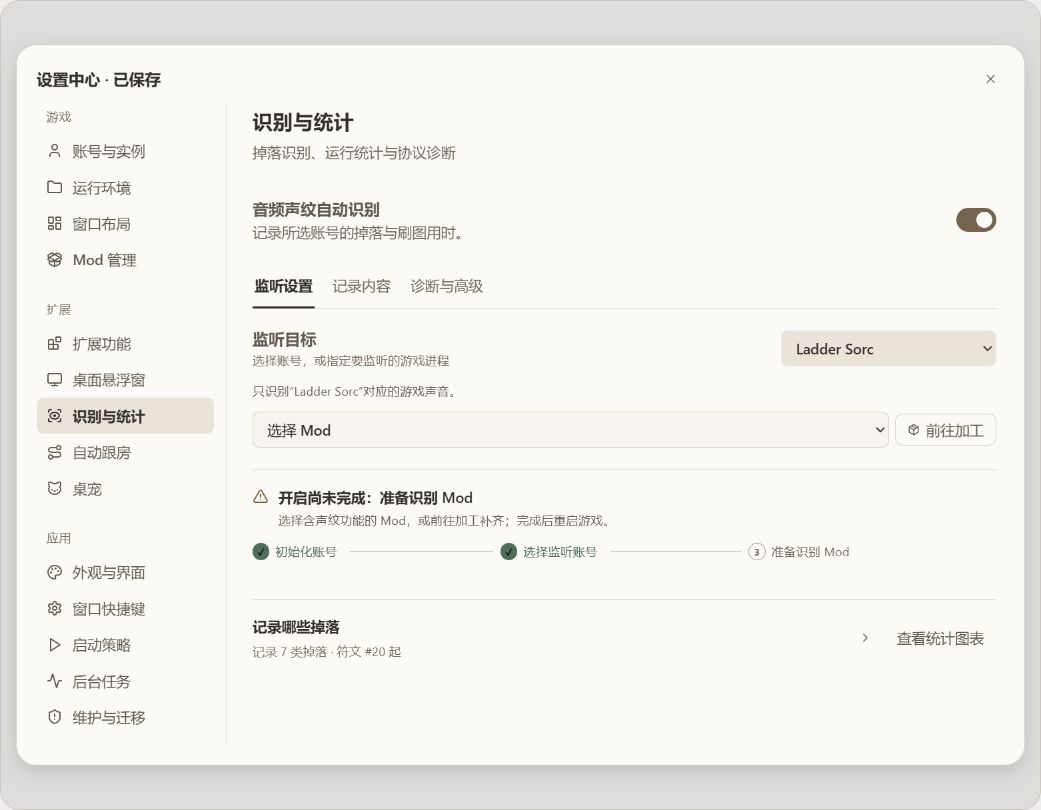
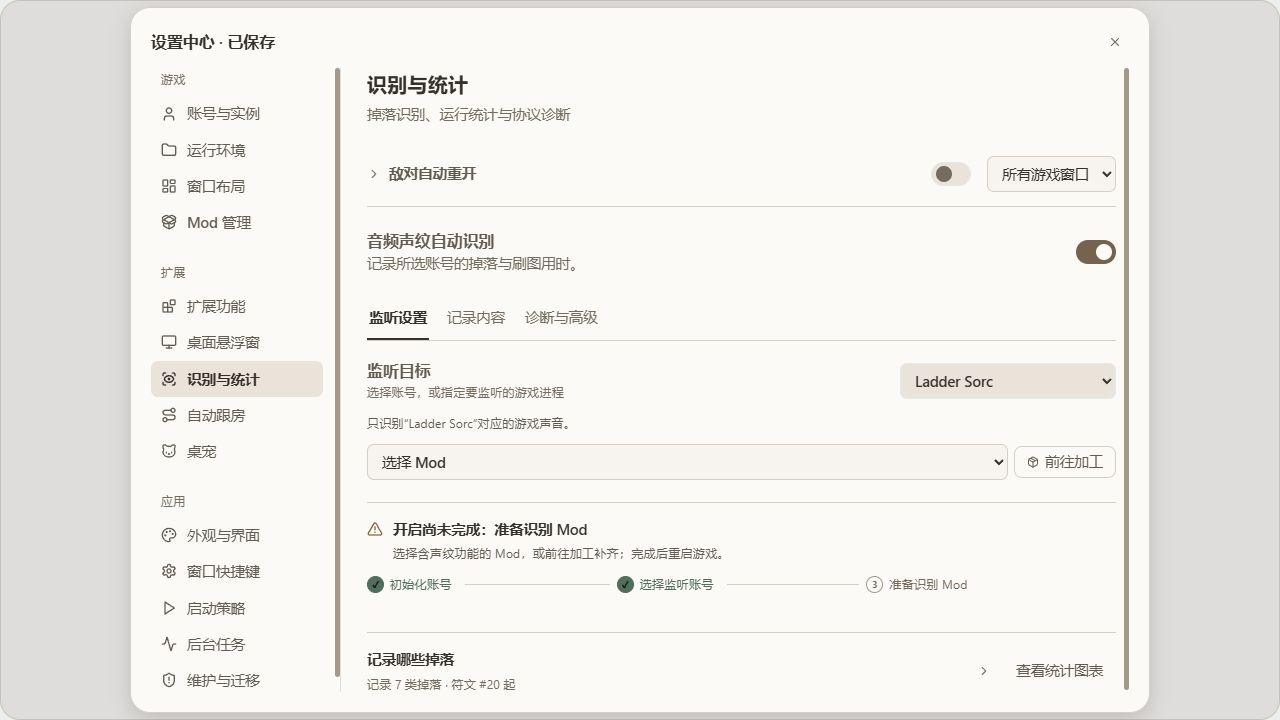
docs(guide): sync visual defaults and hostile restart controls

Changed region(s): [[0.0, 0.0, 0.9837, 1.0], [0.707, 0.5194, 0.7992, 0.55], [0.6763, 0.7944, 0.7685, 0.825]]

diff --git a/docs/user-guide.html b/docs/user-guide.html
@@ -620,12 +620,12 @@
       <h3>视觉地区识别与低分掉落核验</h3>
       <p>在“识别与统计 → 记录内容 → 场景计时与掉落核验”启用地区识别，截图目标沿用监听账号或指定游戏进程。软件每秒检查地区红字，再读取地区及恐怖地带信息；首次使用会下载并校验 OCR 模型与推理运行库。资源完成后，用“截图预览”核对区域，调整比例时以游戏客户区为准。最小化、黑帧或截图失败均不能作为识别成功。</p>
       <p>主界面识别暂未提供。直接退到选人或大厅不会立即结算，计时会持续到下一次识别到地区或结束监控，可能包含菜单停留时间；需要准确结束当前分段时，请先回城并确认识别，或结束监控。</p>
-      <p>低分掉落核验单独开启。先确认游戏持续显示地面标签；默认仅旁路核验。只有明确开启“低分掉落须经视觉确认”后，未匹配、截图失败或超时的低分事件才不会计入已确认掉落。该选项可能漏记，先用旁路模式观察。资源失败可在“诊断与资源”重试；诊断日志默认关闭。</p>
+      <p>新配置默认开启“场景识别与计时”“核验低分掉落”“地面物品名称持续可见”和“只记录核验通过的低分掉落”，核验阈值为 70%。请在游戏内保持地面物品名称可见；未匹配、截图失败或超时的低分事件不会计入已确认掉落，需要旁路观察时可关闭“只记录核验通过的低分掉落”。已有保存的开关选择会保留。资源失败可在“诊断与资源”重试；诊断日志默认关闭。</p>
       <h3>敌对提示音自动重开</h3>
-      <p>先给监听 Mod 加工“敌对自动重开”，重启游戏，再在识别页选择监听目标并开启该功能。它共用音频采集目标，可在场景及掉落记录关闭时独立使用。检测到提示音后向目标连续发送四次 Esc，间隔 150 毫秒；所有执行目标都需要加载“双击 Esc 下一局”。默认仅作用于监听窗口，也可选择监听窗口及 Hub 管理的所有运行游戏。</p>
+      <p>先给监听 Mod 加工“敌对自动重开”，重启游戏，再在识别页选择监听目标并开启该功能。它共用音频采集目标，可在场景及掉落记录关闭时独立使用。检测到提示音后向目标连续发送四次 Esc，间隔 150 毫秒；所有执行目标都需要加载“双击 Esc 下一局”。敌对自动重开固定在识别页分页上方，默认范围为“所有游戏窗口”，包括监听窗口及 Hub 管理的游戏窗口；也可切换为“仅监听窗口”。折叠时保留开关与范围下拉框，点击标题展开说明。已有保存的范围选择会保留。</p>
       <p>每次触发后冷却 15 秒，重复提示不会连续派发。结果显示的是按键已发送，仍需确认游戏内状态；提示音本身不能区分是谁向谁宣战。关闭功能或更换监听目标、触发范围，会停止后续按键。</p>
       <h3>过滤器与统计筛选不是同一件事</h3>
-      <p>设置页按“监听设置、记录内容、诊断与高级”分区：日常先选监听账号与 Mod；场景计时、掉落核验和过滤在“记录内容”；录音、阈值与故障排查在“诊断与高级”。切换分区保留当前配置。</p>
+      <p>设置页按“监听设置、记录内容、诊断与高级”分区：日常先选监听账号与 Mod；场景计时、掉落核验和过滤在“记录内容”；敌对重开位于分页上方；录音、阈值与故障排查在“诊断与高级”。切换分区保留当前配置。</p>
       <p><strong>识别过滤器</strong>决定今后哪些已识别事件写入数据库，例如仅记录 #20–#33 符文；在“识别与统计 → 记录内容”调整后点击“应用掉落过滤”，无需重新加工 Mod。被过滤掉、没有保存的事件以后不能靠放宽筛选补回来。<strong>统计页筛选</strong>只决定怎样展示已保存记录，不改变原始数据。</p>
       <h3>信号从哪里来，哪些物品可以识别</h3>
       <p>识别 Mod 由随 Hub 内置的 <code>d2r-audio-mod.exe</code> 独立生成，D2RHub 负责调用生成器、复核输出、配置目标账号，并接收和统计 v7 声纹。生成器不读取 D2RHub 的账号、配置或数据库，也不修改源 Mod。“设置中心 → 扩展 → 识别与统计”可选择已初始化账号的昵称或指定游戏进程；捕获器只监听选定的 D2R 进程及其子进程。指定进程模式不修改账号登录、Mod 或启动配置。</p>
@@ -676,7 +676,7 @@
       <li>核对双方预览房名、区服和角色模式。默认模式按原版流程创建或跟房；跨电脑协作时，创建方选择“拼房主机”，加入方选择“拼房跟随”。</li>
       <li>全部加入指令送达后，本机下一序号递增。输入失败或取消不递增；间隔模式有指令未送达时也不递增。游戏拒绝入房不能自动识别，需手动核对、调整序号。</li></ol>
       <p>规则只复制前缀、密码、下一序号和补零位数，不导入他人的账号、快捷键或 Mod。它不是跨电脑实时同步：创建者跳房、重试或朋友中途加入时，要重新同步序号。建房后分享时应把跟随者序号设为当前已建房间的序号。</p>
-      <p>自动跟房设置和主页“跟房配置”均提供默认、拼房主机、拼房跟随三个互斥模式。默认不发送或监听聊天；主机在创建前发送；跟随监听本机主号聊天框，主号与小号一起加入，两个房间快捷键均执行加入。仅跟房无需切换前台。设置页自动保存，快捷面板离开时自动保存。模式切换会取消旧流程和待执行信号。拼房跟随不要求开启声纹或地区识别，但需要 OCR 资源就绪、主号聊天窗口可捕获且参与游戏未最小化。诊断日志默认关闭。</p>
+      <p>自动跟房设置和主页“跟房配置”均提供默认、拼房主机、拼房跟随三个互斥模式，初始选择“默认”。默认不发送或监听聊天；主机在创建前发送；跟随监听本机主号聊天框，主号与小号一起加入，两个房间快捷键均执行加入。仅跟房无需切换前台。设置页自动保存，快捷面板离开时自动保存。模式切换会取消旧流程和待执行信号。拼房跟随不要求开启声纹或地区识别，但需要 OCR 资源就绪、主号聊天窗口可捕获且参与游戏未最小化。诊断日志默认关闭。</p>
       <h3>聊天信号如何防止重复跟房</h3>
       <p>拼房主机在创建前发送 <code>+ +501+ +</code> 这样的短消息。拼房跟随先检查两侧标记，再读取数字后缀；它只用于去重，不会覆盖本机房号。首次有效画面只记录旧消息基线，随后比已消费最大序号更大的信号才会安排跟房。等待时间为 1 秒加跟房延迟，执行期间不继续认领其他消息。</p>
       <p>修改房名前缀、密码、起始序号或位数并成功保存，会重新建立去重会话；粘贴相同规则后保存也能重置。设置页自动保存，快捷面板关闭或离开时自动保存。重置会取消旧等待任务、清空 OCR 缓存，并保留首次画面保护；保存失败时不会重置。普通重启、开关监听和系统自动递增序号会保留记录。</p>

diff --git a/docs/guide-images/guide-figures.js b/docs/guide-images/guide-figures.js
@@ -43,45 +43,52 @@ const GUIDE_FIGURES = {
     "title": "先选监听账号，再准备识别 Mod",
     "file": "recognition.png",
     "crop": [
-      240,
-      105,
-      767,
-      590
+      355,
+      68,
+      773,
+      633
     ],
     "note": "图中尚未准备识别 Mod。开关打开不等于已经开始捕获；完成准备并重启游戏后，请以运行状态为准。",
     "marks": [
       [
-        780,
-        329,
-        216,
-        38,
+        899,
+        363,
+        217,
+        37,
         "选择实际刷图的账号"
       ],
       [
-        252,
-        410,
-        744,
-        39,
+        366,
+        443,
+        750,
+        38,
         "选择已加工声纹的 Mod，或前往加工补齐"
       ],
       [
-        956,
-        207,
+        1076,
+        239,
         42,
-        29,
+        25,
         "Mod 准备并重启游戏后，再开启识别"
       ],
       [
-        252,
-        276,
-        236,
-        30,
+        367,
+        306,
+        234,
+        33,
         "监听、记录内容和诊断按用途分区"
+      ],
+      [
+        366,
+        154,
+        750,
+        40,
+        "敌对重开固定在分页上方；展开标题查看说明"
       ]
     ],
     "size": [
-      1041,
-      810
+      1280,
+      720
     ]
   },
   "mod": {

diff --git a/docs/visual-recognition.md b/docs/visual-recognition.md
@@ -1,6 +1,6 @@
 # 视觉识别
 
-场景及 TZ 由截图与 OCR 识别；声纹只保留掉落和敌对提示。视觉开关默认关闭，配置通过
+场景及 TZ 由截图与 OCR 识别；声纹只保留掉落和敌对提示。新配置默认开启场景计时、低分掉落核验、地面名称持续可见及低分掉落确认过滤，核验阈值为 70%；已有明确保存的开关选择保留。配置通过
 `ModuleConfigStore` 保存在 `%APPDATA%/D2RHub/modules/visual-recognition/config.json`。
 
 ## 使用
@@ -14,7 +14,7 @@
 - 已消费序号不会因消息消失或加载而重新触发。首次画面作为基线忽略；旧版、截断和格式不完整的信号忽略。详情见下方聊天 OCR 节奏。
 - 设置 → 识别与统计 → 记录内容 → 场景计时与掉落核验：可启用每秒检查红字播报、驱动场景计时；低分掉落核验独立开关。截图目标跟随声纹进程，包括已选中的外部游戏实例。
 - ROI 使用游戏客户区比例；提供一次性截图预览。最小化、黑帧、无法捕获均为“无法核验”。WGC 在系统支持的情况下可能显示捕获边框。
-- 掉落默认只旁路核验。确认游戏持续显示地面标签后，可开启“低分掉落须经视觉确认后才计入统计”。未匹配、无法核验和队列超时均不会计入已确认掉落；这可能漏记，应先观察再启用。
+- 掉落默认核验并过滤未确认的低分事件；请保持游戏持续显示地面标签。关闭“只记录核验通过的低分掉落”可改用旁路核验。未匹配、无法核验和队列超时均不会计入已确认掉落；这可能漏记，可根据实际情况关闭确认过滤。
 
 ## 资源分发
 

diff --git a/docs/guide-images/README.md b/docs/guide-images/README.md
@@ -4,6 +4,8 @@
 
 ## 当前图示
 
+2026-10-20 再次更新 `recognition.png`，敌对自动重开上移至分页外，说明默认折叠，开关和范围并排。
+
 2026-10-20 更新 `room-collaboration.png`、`recognition.png`、`room-participants.png`、`room-rules.png`、`room-auto.png`，新增 `room-method.png`，对应设置分区和离开时自动保存的快捷面板。使用示例账号，快捷面板密码隐藏，未执行游戏操作。快捷面板关闭、点击外部、Esc 或离开时自动保存；无效输入与保存失败会提示。
 
 以下截图沿用“游戏 / 扩展 / 应用”侧栏分组；识别与跟房页内按用途分区。Mod 加工和扩展列表仍使用 2026-09-28 的采集图：
